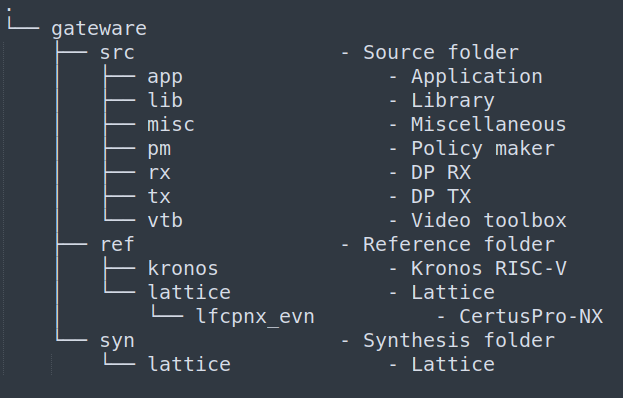
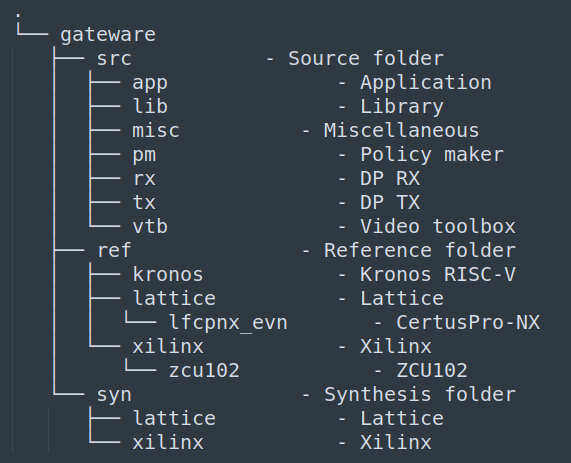
Added Xilinx reference design

Changed region(s): [[0.5061, 0.0905, 0.9825, 0.995], [0.0, 0.0302, 0.5061, 0.9648], [0.2382, 0.8744, 0.387, 0.995]]

diff --git a/docs/source/build.rst b/docs/source/build.rst
@@ -12,24 +12,25 @@ The repository file structure is listed in figure 1.
    :alt: Repository tree
 Figure 1: Repository tree
 
-.. comment
-.. comment	.
-.. comment	└── gateware
-.. comment		├── src 				- Source folder
-.. comment    	│	├── app					- Application
-.. comment    	│	├── lib					- Library
-.. comment    	│	├── misc				- Miscellaneous
-.. comment    	│	├── pm					- Policy maker
-.. comment    	│	├── rx					- DP RX
-.. comment    	│	├── tx					- DP TX
-.. comment    	│	└── vtb					- Video toolbox
-.. comment    	├── ref					- Reference folder
-.. comment    	│	├── kronos				- Kronos RISC-V 
-.. comment    	│	└── lattice				- Lattice
-.. comment    	│   	└── lfcpnx_evn			- CertusPro-NX 
-.. comment    	└── syn					- Synthesis folder
-.. comment        	└── lattice				- Lattice
-
+	.
+	└── gateware
+		├── src 				- Source folder
+    	│	├── app					- Application
+    	│	├── lib					- Library
+    	│	├── misc				- Miscellaneous
+    	│	├── pm					- Policy maker
+    	│	├── rx					- DP RX
+    	│	├── tx					- DP TX
+    	│	└── vtb					- Video toolbox
+    	├── ref					- Reference folder
+      │  ├── kronos           - Kronos RISC-V 
+    	│	├── lattice				- Lattice
+    	│  │ 	└── lfcpnx_evn			- CertusPro-NX 
+      │  └── xilinx           - Xilinx
+      │     └── zcu102           - ZCU102
+    	└── syn					- Synthesis folder
+        	├── lattice				- Lattice
+         └── xilinx           - Xilinx
 
 Kronos RISC-V
 ^^^^^^^^^^^^^
@@ -47,7 +48,7 @@ Go to the folder gateware/ref and run the script ``get_kronos_repo.sh``
 
 
 Lattice reference design
-^^^^^^^^^^^^^^^^^^^^^^^^^^^^^^^^^^^^^
+^^^^^^^^^^^^^^^^^^^^^^^^
 Steps to build the Lattice CertusPro-NX reference design. 
 
 #. Change the work directory to the folder gateware/syn/lattice
@@ -73,3 +74,13 @@ Figure 2: TCL-console
 Figure 3: Regenerate All IPs
 
 -----
+
+Xilinx reference design
+^^^^^^^^^^^^^^^^^^^^^^^^
+Steps to build the Xilinx ZCU102 reference design. 
+
+#. Change the work directory to the folder gateware/syn/xilinx
+#. Launch the Xilinx Vivado software
+#. Build the project by typing in the TCL console; source ../../ref/xilinx/zcu102/build_proj.tcl
+#. After the project was build run synthesis and implementation
+
